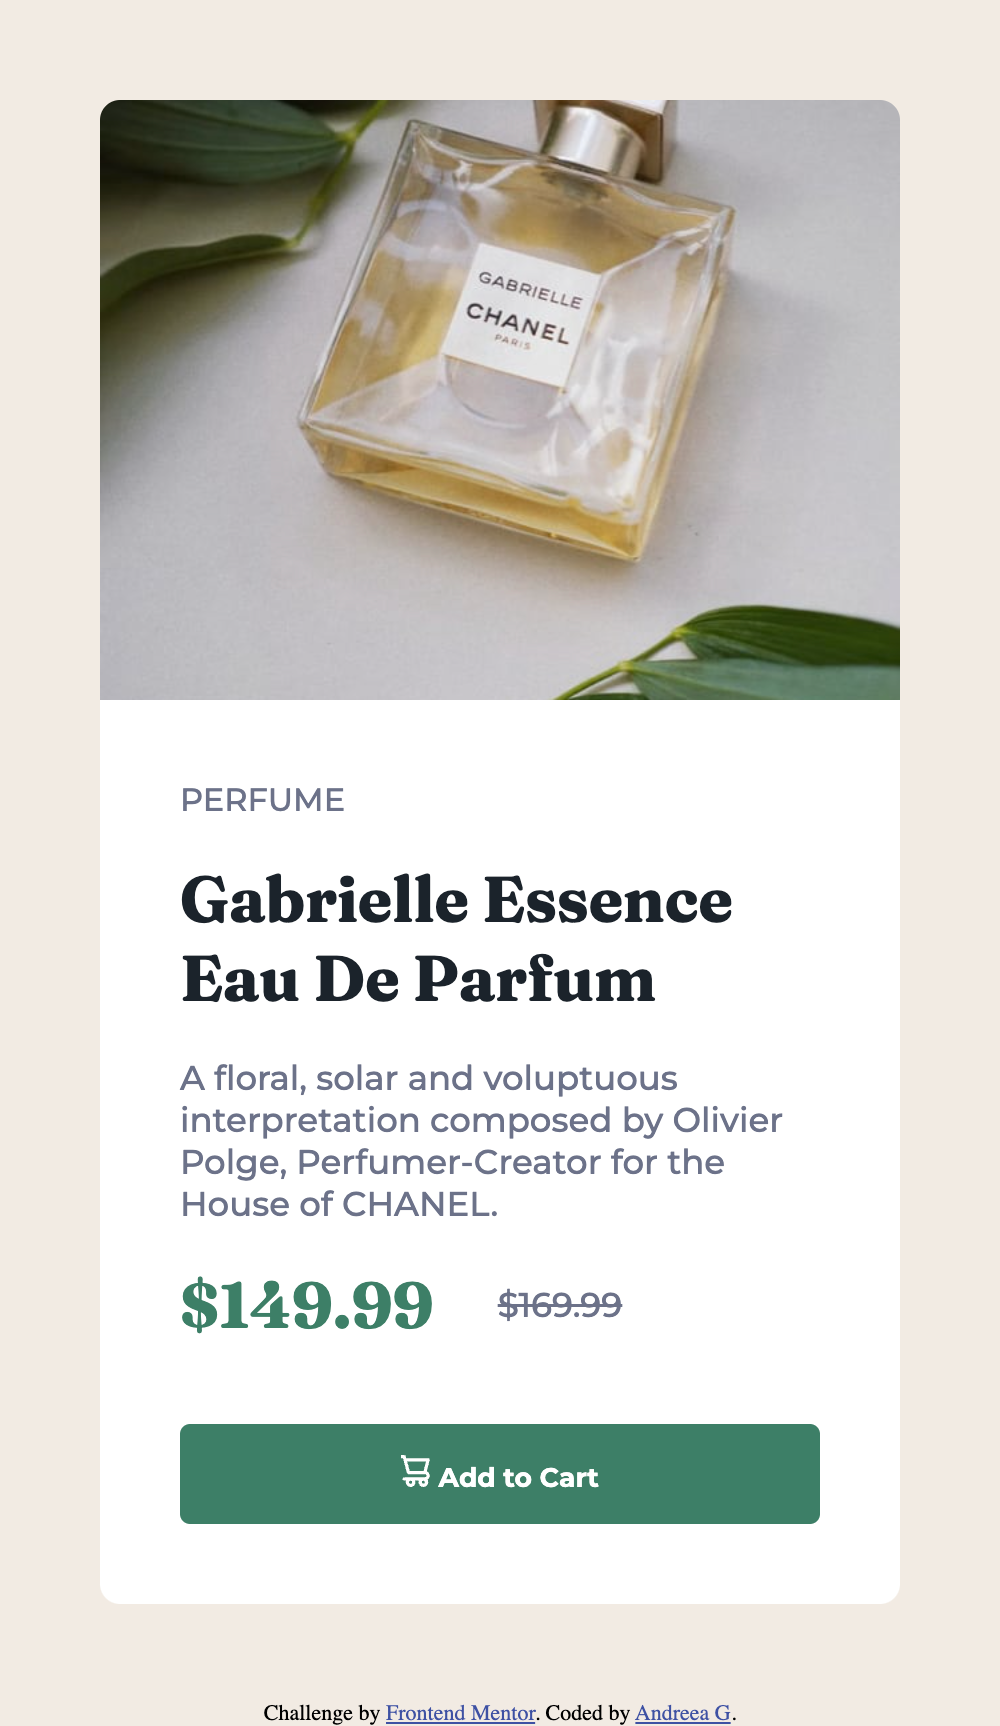
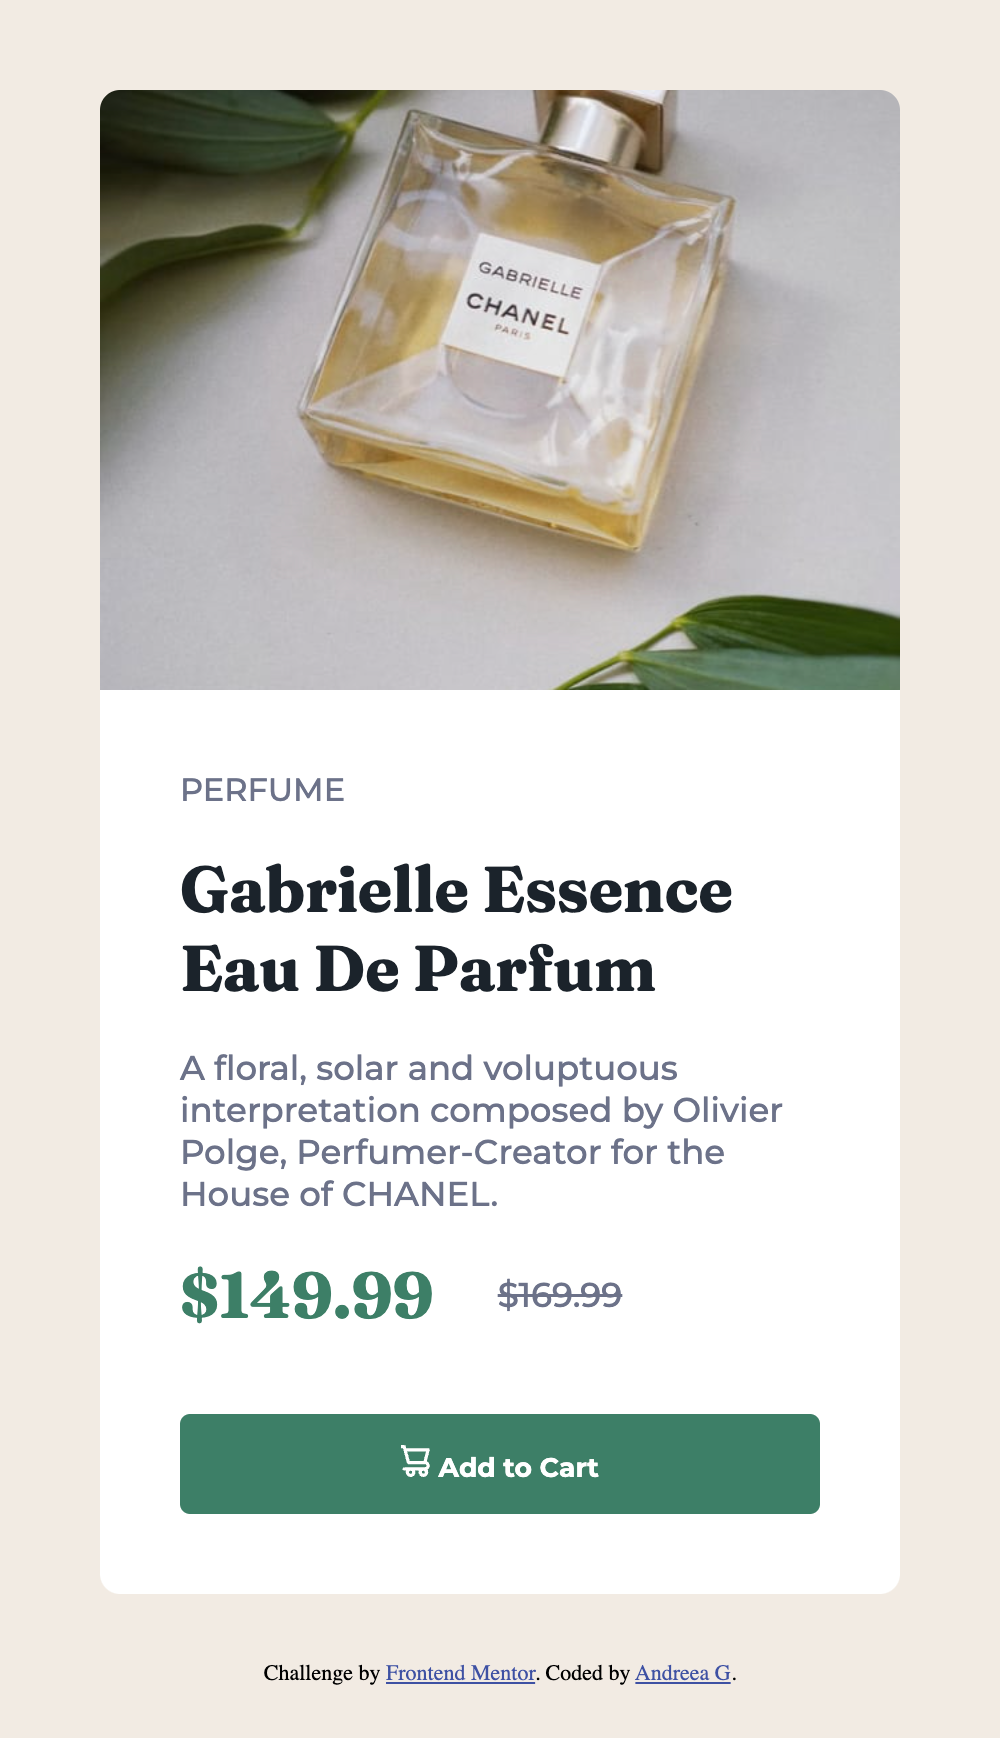
adds changed to CSS and README files

diff --git a/styles.css b/styles.css
@@ -56,7 +56,7 @@ p:last-of-type {
 }
 
 main {
-    padding: 10% 0;
+    padding: 9% 0;
 }
 
 .container {
@@ -95,7 +95,7 @@ Desktop: 1440px */
 
 @media only screen and (max-width: 600px) {
     main {
-        margin-bottom: 200px;
+        margin-bottom: 190px;
     }
     
     h1 {
